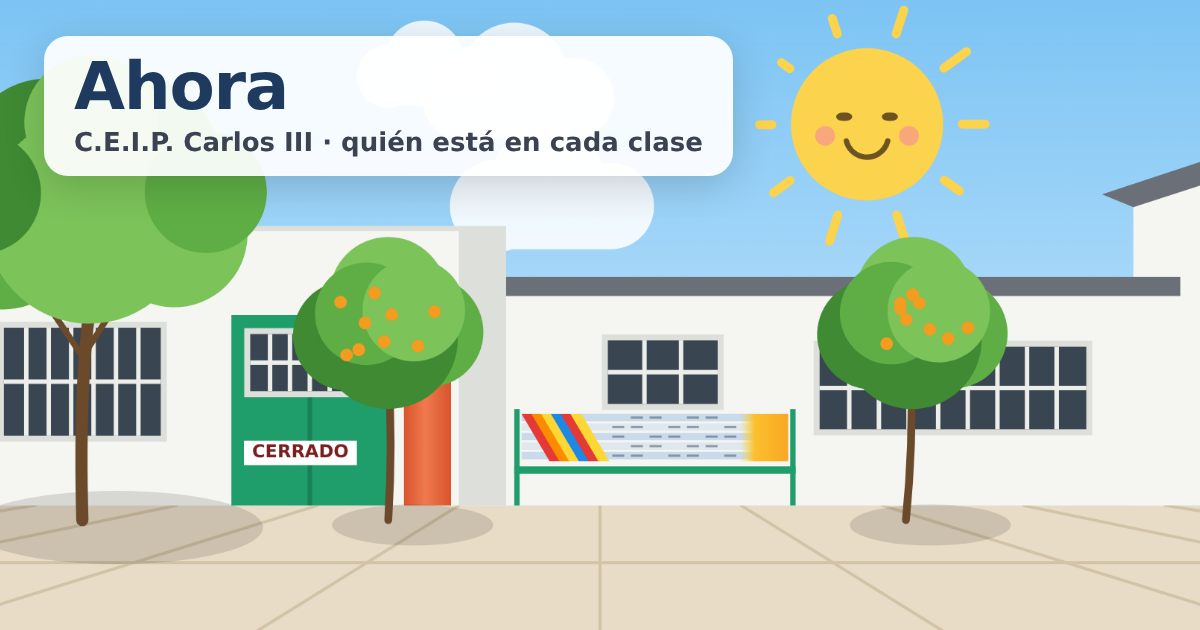
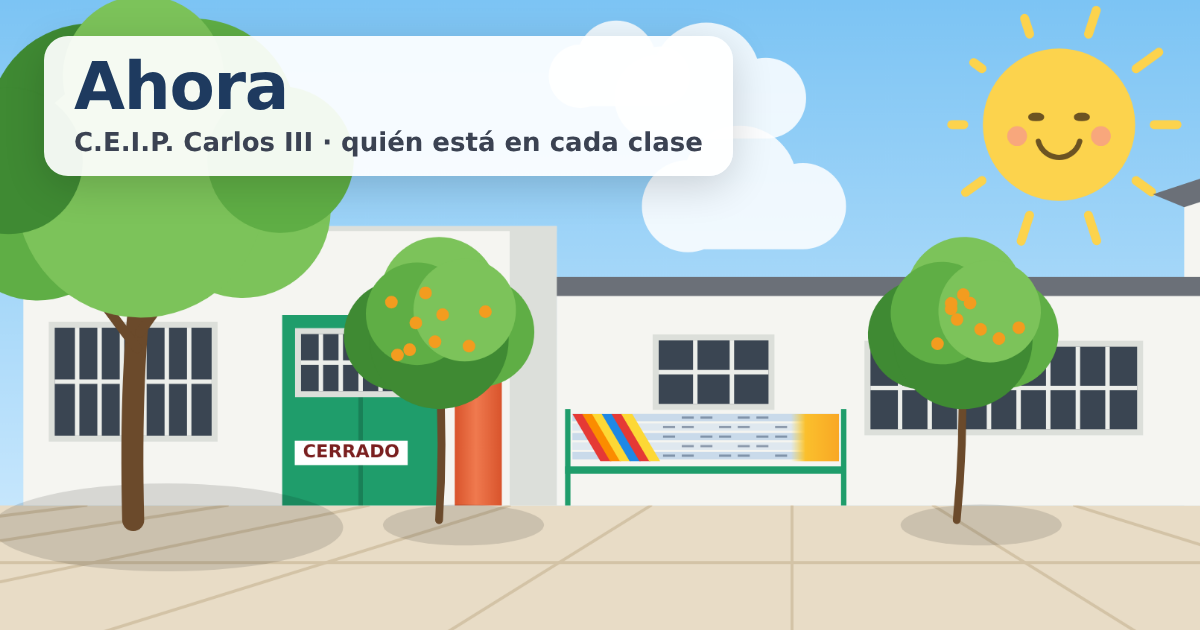
Escena del cole: árbol grande mayor, escena desplazada a la izquierda y vista previa reencuadrada
Borrador pendiente de visto bueno.

Claude-Session: https://claude.ai/code/session_012b7dyQL4caA6nwcDHkjpDR

diff --git a/panel/index.html b/panel/index.html
@@ -1568,13 +1568,13 @@
     }
     // Árbol grande de hoja (sin naranjas), frente a la ventana de la izquierda.
     function arbolGrande(gy, t) {
-      var s = H / 260, x = sx + sw * .17, alto = 118 * s, r = 50 * s;
+      var s = H / 260, x = sx + sw * .17, alto = 128 * s, r = 60 * s;
       var ang = Math.sin(t * .8 + 2) * .025;
       ctx.fillStyle = 'rgba(0,0,0,.12)'; ctx.beginPath(); ctx.ellipse(x + 14 * s, gy + 9 * s, r * 1.2, r * .3, 0, 0, 7); ctx.fill();
       ctx.save(); ctx.translate(x, gy + 6 * s); ctx.rotate(ang);
       ctx.strokeStyle = PAL.tronco; ctx.lineCap = 'round';
-      ctx.lineWidth = 5 * s; ctx.beginPath(); ctx.moveTo(0, 0); ctx.quadraticCurveTo(-3 * s, -alto * .5, 2 * s, -alto * .8); ctx.stroke();
-      ctx.lineWidth = 2.5 * s; ctx.beginPath(); ctx.moveTo(0, -alto * .55); ctx.lineTo(-r * .5, -alto * .85); ctx.moveTo(1 * s, -alto * .6); ctx.lineTo(r * .45, -alto * .9); ctx.stroke();
+      ctx.lineWidth = 9 * s; ctx.beginPath(); ctx.moveTo(0, 0); ctx.quadraticCurveTo(-3 * s, -alto * .5, 2 * s, -alto * .8); ctx.stroke();
+      ctx.lineWidth = 4 * s; ctx.beginPath(); ctx.moveTo(0, -alto * .55); ctx.lineTo(-r * .5, -alto * .85); ctx.moveTo(1 * s, -alto * .6); ctx.lineTo(r * .45, -alto * .9); ctx.stroke();
       var cy = -alto - r * .2;
       [[-.7, .25, .6], [.7, .2, .6], [-.35, -.35, .7], [.35, -.4, .7], [0, .1, .85], [-.9, -.1, .5], [.95, -.15, .5], [0, -.7, .55]].forEach(function(b, i) {
         ctx.fillStyle = PAL.hoja[(i + 1) % 3]; ctx.beginPath(); ctx.arc(b[0] * r, cy + b[1] * r, b[2] * r, 0, 7); ctx.fill();
@@ -1591,8 +1591,8 @@
       var X = function(f) { return sx + sw * f; };
       // Bloque del fondo a la derecha (tejadillo inclinado).
       ctx.fillStyle = PAL.muro; ctx.beginPath(); ctx.moveTo(X(.84), gy); ctx.lineTo(X(.84), H * .32); ctx.lineTo(X(.935), H * .24);
-      ctx.lineTo(X(1.05), H * .24); ctx.lineTo(X(1.05), gy); ctx.fill();
-      ctx.fillStyle = PAL.alero; ctx.beginPath(); ctx.moveTo(X(.82), H * .31); ctx.lineTo(X(.93), H * .22); ctx.lineTo(X(1.05), H * .22); ctx.lineTo(X(1.05), H * .25); ctx.lineTo(X(.94), H * .25); ctx.lineTo(X(.84), H * .33); ctx.fill();
+      ctx.lineTo(Math.max(W, X(1.05)), H * .24); ctx.lineTo(Math.max(W, X(1.05)), gy); ctx.fill();
+      ctx.fillStyle = PAL.alero; ctx.beginPath(); ctx.moveTo(X(.82), H * .31); ctx.lineTo(X(.93), H * .22); ctx.lineTo(Math.max(W, X(1.05)), H * .22); ctx.lineTo(Math.max(W, X(1.05)), H * .25); ctx.lineTo(X(.94), H * .25); ctx.lineTo(X(.84), H * .33); ctx.fill();
       // Bloque bajo de la derecha, con alero gris.
       ctx.fillStyle = PAL.muro; ctx.fillRect(X(.44), H * .46, sw * .42, gy - H * .46);
       ctx.fillStyle = PAL.alero; ctx.fillRect(X(.43), H * .44, sw * .44, H * .03);
@@ -1700,7 +1700,7 @@
       nubes.forEach(function(n) { n.x += n.v / 60; if (n.x > 1.15) n.x = -.2; nube(n.x * W, n.y * H, n.s); });
 
       // El cole y su patio.
-      sw = Math.min(W * .94, H * 3); sx = (W - sw) / 2;
+      sw = Math.min(W * .94, H * 3); sx = (W - sw) / 2 - sw * .09;
       cole(t);
 
       // Avión de papel con estela de puntos.

diff --git a/partial_ahora.html b/partial_ahora.html
@@ -231,13 +231,13 @@
     }
     // Árbol grande de hoja (sin naranjas), frente a la ventana de la izquierda.
     function arbolGrande(gy, t) {
-      var s = H / 260, x = sx + sw * .17, alto = 118 * s, r = 50 * s;
+      var s = H / 260, x = sx + sw * .17, alto = 128 * s, r = 60 * s;
       var ang = Math.sin(t * .8 + 2) * .025;
       ctx.fillStyle = 'rgba(0,0,0,.12)'; ctx.beginPath(); ctx.ellipse(x + 14 * s, gy + 9 * s, r * 1.2, r * .3, 0, 0, 7); ctx.fill();
       ctx.save(); ctx.translate(x, gy + 6 * s); ctx.rotate(ang);
       ctx.strokeStyle = PAL.tronco; ctx.lineCap = 'round';
-      ctx.lineWidth = 5 * s; ctx.beginPath(); ctx.moveTo(0, 0); ctx.quadraticCurveTo(-3 * s, -alto * .5, 2 * s, -alto * .8); ctx.stroke();
-      ctx.lineWidth = 2.5 * s; ctx.beginPath(); ctx.moveTo(0, -alto * .55); ctx.lineTo(-r * .5, -alto * .85); ctx.moveTo(1 * s, -alto * .6); ctx.lineTo(r * .45, -alto * .9); ctx.stroke();
+      ctx.lineWidth = 9 * s; ctx.beginPath(); ctx.moveTo(0, 0); ctx.quadraticCurveTo(-3 * s, -alto * .5, 2 * s, -alto * .8); ctx.stroke();
+      ctx.lineWidth = 4 * s; ctx.beginPath(); ctx.moveTo(0, -alto * .55); ctx.lineTo(-r * .5, -alto * .85); ctx.moveTo(1 * s, -alto * .6); ctx.lineTo(r * .45, -alto * .9); ctx.stroke();
       var cy = -alto - r * .2;
       [[-.7, .25, .6], [.7, .2, .6], [-.35, -.35, .7], [.35, -.4, .7], [0, .1, .85], [-.9, -.1, .5], [.95, -.15, .5], [0, -.7, .55]].forEach(function(b, i) {
         ctx.fillStyle = PAL.hoja[(i + 1) % 3]; ctx.beginPath(); ctx.arc(b[0] * r, cy + b[1] * r, b[2] * r, 0, 7); ctx.fill();
@@ -254,8 +254,8 @@
       var X = function(f) { return sx + sw * f; };
       // Bloque del fondo a la derecha (tejadillo inclinado).
       ctx.fillStyle = PAL.muro; ctx.beginPath(); ctx.moveTo(X(.84), gy); ctx.lineTo(X(.84), H * .32); ctx.lineTo(X(.935), H * .24);
-      ctx.lineTo(X(1.05), H * .24); ctx.lineTo(X(1.05), gy); ctx.fill();
-      ctx.fillStyle = PAL.alero; ctx.beginPath(); ctx.moveTo(X(.82), H * .31); ctx.lineTo(X(.93), H * .22); ctx.lineTo(X(1.05), H * .22); ctx.lineTo(X(1.05), H * .25); ctx.lineTo(X(.94), H * .25); ctx.lineTo(X(.84), H * .33); ctx.fill();
+      ctx.lineTo(Math.max(W, X(1.05)), H * .24); ctx.lineTo(Math.max(W, X(1.05)), gy); ctx.fill();
+      ctx.fillStyle = PAL.alero; ctx.beginPath(); ctx.moveTo(X(.82), H * .31); ctx.lineTo(X(.93), H * .22); ctx.lineTo(Math.max(W, X(1.05)), H * .22); ctx.lineTo(Math.max(W, X(1.05)), H * .25); ctx.lineTo(X(.94), H * .25); ctx.lineTo(X(.84), H * .33); ctx.fill();
       // Bloque bajo de la derecha, con alero gris.
       ctx.fillStyle = PAL.muro; ctx.fillRect(X(.44), H * .46, sw * .42, gy - H * .46);
       ctx.fillStyle = PAL.alero; ctx.fillRect(X(.43), H * .44, sw * .44, H * .03);
@@ -363,7 +363,7 @@
       nubes.forEach(function(n) { n.x += n.v / 60; if (n.x > 1.15) n.x = -.2; nube(n.x * W, n.y * H, n.s); });
 
       // El cole y su patio.
-      sw = Math.min(W * .94, H * 3); sx = (W - sw) / 2;
+      sw = Math.min(W * .94, H * 3); sx = (W - sw) / 2 - sw * .09;
       cole(t);
 
       // Avión de papel con estela de puntos.

diff --git a/tools/generar_preview.js b/tools/generar_preview.js
@@ -13,7 +13,7 @@ if (!m) throw new Error('No encuentro _ahEscena en partial_ahora.html');
 const esc = s => String(s).replace(/&/g, '&amp;').replace(/</g, '&lt;');
 const html = (`<!doctype html><meta charset="utf-8"><style>
   html,body{margin:0;width:1200px;height:630px;overflow:hidden;font-family:"Segoe UI",system-ui,sans-serif}
-  #cv{position:absolute;left:50%;top:50%;width:560px;transform:translate(-50%,-50%) scale(2.98);transform-origin:center;display:block}
+  #cv{position:absolute;left:66%;top:50%;width:560px;transform:translate(-50%,-50%) scale(2.98);transform-origin:center;display:block}
   .t{position:absolute;left:44px;top:36px;background:rgba(255,255,255,.92);border-radius:24px;padding:18px 30px;box-shadow:0 10px 40px rgba(0,0,0,.16)}
   .t b{display:block;font-size:66px;line-height:1;color:#1e3a5f;letter-spacing:-.02em}
   .t span{display:block;margin-top:8px;font-size:26px;color:#3b4252;font-weight:600}
